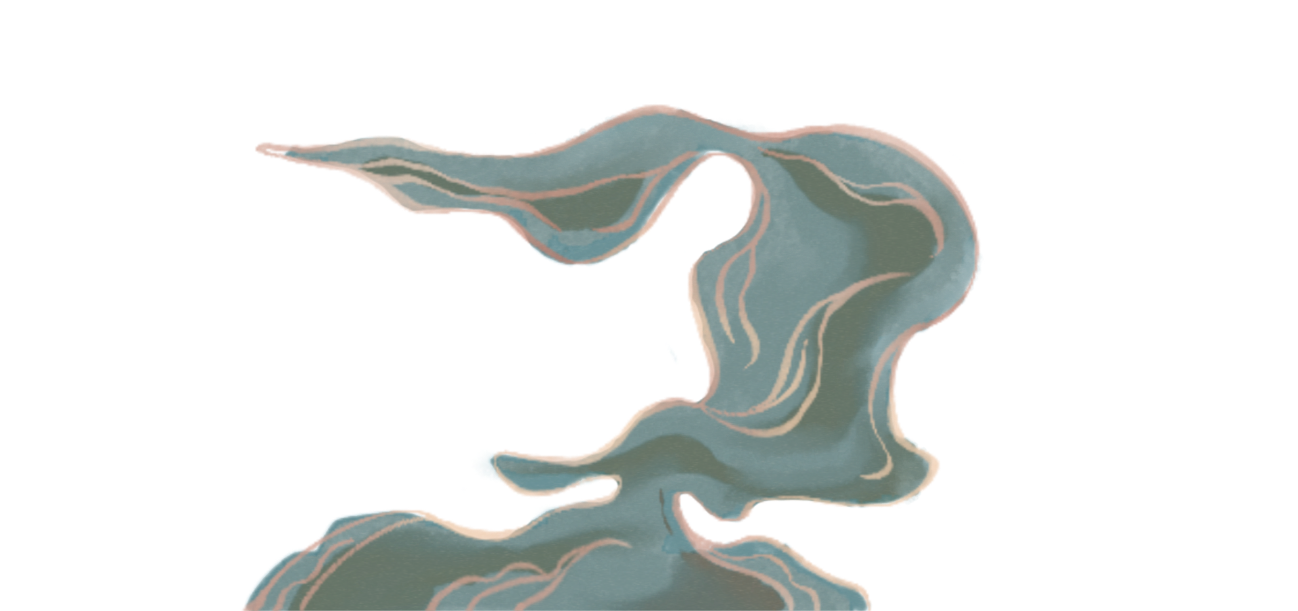
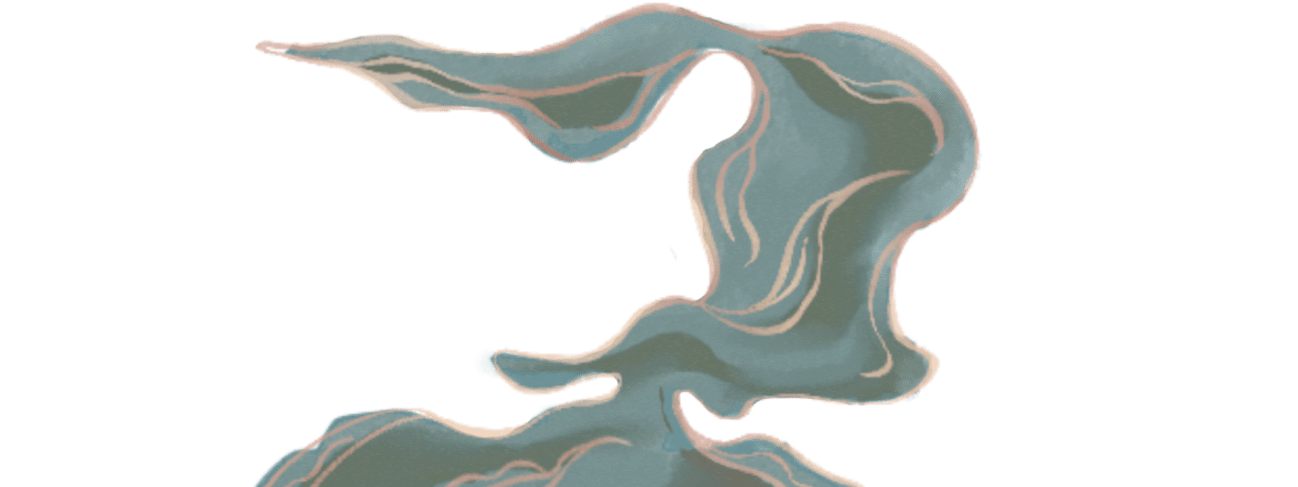
feat: crack check & update cloud image

Changed region(s): [[0.1849, 0.0, 0.7704, 1.0], [0.4931, 0.9548, 0.5239, 1.0], [0.5855, 0.8008, 0.6163, 0.8316]]

diff --git a/src/views/Home.vue b/src/views/Home.vue
@@ -1,6 +1,11 @@
 <template>
   <div class="wrapper">
-    <img src="../assets/image/bg.jpg" alt="bg" class="bg" />
+    <img
+      src="../assets/image/bg.jpg"
+      alt="bg"
+      class="bg"
+      :style="{ animationPlayState: state.isOver ? 'paused' : 'running' }"
+    />
     <img
       src="../assets/image/mask-light.png"
       alt="mask"
@@ -8,8 +13,16 @@
       id="mask"
       :style="{ top: state.top + 'px' }"
     />
-    <div class="dot" :style="{ top: state.top + 'px' }"></div>
-    <canvas class="clouds"></canvas>
+    <canvas
+      class="clouds"
+      :style="{ animationPlayState: state.isOver ? 'paused' : 'running' }"
+    ></canvas>
+  </div>
+  <div class="over-wrapper" v-show="state.isOver">
+    <div class="over-box">
+      <div class="content">GAME OVER</div>
+      <div class="refresh-btn" @click="reload">PLAY AGAIN</div>
+    </div>
   </div>
 </template>
 
@@ -21,19 +34,44 @@ import { defineComponent, reactive, onMounted } from "@vue/runtime-core";
 export default defineComponent({
   name: "Home",
   setup() {
-    const RADIUS = 100;
+    /**全局常量 */
+    const ratio = window.innerWidth / 1920;
+    const RADIUS = 100 * ratio;
     const TOP = RADIUS;
     const BOTTOM = window.innerHeight - RADIUS * 2;
     const MIDDLE = window.innerHeight / 2 - RADIUS;
     const g = 1.03;
-    const ratio = window.innerWidth / 1920;
     let ctx: CanvasRenderingContext2D | null;
+    const v = ((3000 + window.innerWidth) * 0.8) / (10 * 1000); //云朵的运行速度
 
+    /**云层位置数据 */
+    const scale = 0.5;
+    const cloudsImage = [
+      {
+        offsetTop: window.innerHeight / 2 - (309 / 2) * ratio,
+        offsetLeft: window.innerWidth,
+        width: 756 * ratio * scale,
+        height: 309 * ratio * scale,
+      },
+      {
+        offsetTop: window.innerHeight - 487 * ratio * scale,
+        offsetLeft: 1000 * ratio + window.innerWidth,
+        width: 1298 * ratio * scale,
+        height: 487 * ratio * scale,
+      },
+      {
+        offsetTop: 0,
+        offsetLeft: window.innerWidth + 1200 * ratio,
+        width: 1069 * ratio * scale,
+        height: 401 * ratio * scale,
+      },
+    ];
+
+    /** 全局状态 */
     const state = reactive({
       isOver: false,
       isMouseDown: false,
       top: MIDDLE,
-      ctx: null,
     });
 
     /**
@@ -51,10 +89,10 @@ export default defineComponent({
       img1.onload = () => {
         ctx?.drawImage(
           img1,
-          0 + window.innerWidth,
-          0,
-          907 * ratio,
-          907 * ratio
+          cloudsImage[0].offsetLeft,
+          cloudsImage[0].offsetTop,
+          cloudsImage[0].width,
+          cloudsImage[0].height
         );
       };
 
@@ -63,10 +101,10 @@ export default defineComponent({
       img2.onload = () => {
         ctx?.drawImage(
           img2,
-          800 + window.innerWidth,
-          window.innerHeight - 611 * ratio,
-          1298 * ratio,
-          611 * ratio
+          cloudsImage[1].offsetLeft,
+          cloudsImage[1].offsetTop,
+          cloudsImage[1].width,
+          cloudsImage[1].height
         );
       };
 
@@ -75,10 +113,10 @@ export default defineComponent({
       img3.onload = () => {
         ctx?.drawImage(
           img3,
-          1200 + window.innerWidth,
-          -100,
-          1463 * ratio,
-          600 * ratio
+          cloudsImage[2].offsetLeft,
+          cloudsImage[2].offsetTop,
+          cloudsImage[2].width,
+          cloudsImage[2].height
         );
       };
     };
@@ -95,29 +133,82 @@ export default defineComponent({
     /**
      * 碰撞检测
      */
+    const checkInterval = () => {
+      check();
+      setInterval(() => {
+        check();
+      }, 10000);
+    };
+
     const check = () => {
-      let top = state.top;
-      const imageData = ctx?.getImageData(
-        window.innerWidth / 2,
-        top,
-        1,
-        1
-      ).data;
-      console.log(top, imageData);
-      // for (let index = 3; index < imageData!.length; index += 4) {
-      //   console.log(imageData![index]);
-      //   // if (imageData![index] == 0) {
-      //   //   console.log("isAlphaBackground");
-      //   //   state.isOver = true;
-      //   // }
-      // }
-      // }, 10000);
+      let timer;
+      clearInterval(timer);
+      if (!state.isOver) {
+        let left = (window.innerWidth / 2) * ratio;
+        console.log("begin!");
+
+        timer = setInterval(() => {
+          if (!state.isOver) {
+            left += 30 * v;
+            let top = state.top;
+            /** 碰撞情况枚举 */
+            /** 第一朵云 */
+            if (
+              left >= cloudsImage[0].offsetLeft + RADIUS &&
+              left <= cloudsImage[0].offsetLeft + cloudsImage[0].width - RADIUS
+            ) {
+              console.log("Crossing cloud - 1");
+              if (
+                top > cloudsImage[0].offsetTop - RADIUS &&
+                top < cloudsImage[0].offsetTop + cloudsImage[0].height + RADIUS
+              ) {
+                state.isOver = true;
+              }
+            }
+            /** 第二朵云 */
+            if (
+              left >= cloudsImage[1].offsetLeft + RADIUS &&
+              left <= cloudsImage[1].offsetLeft + cloudsImage[1].width - RADIUS
+            ) {
+              console.log("Crossing cloud - 2");
+              if (
+                top > cloudsImage[1].offsetTop - RADIUS &&
+                top < cloudsImage[1].offsetTop + cloudsImage[1].height + RADIUS
+              ) {
+                state.isOver = true;
+              }
+            }
+            /** 第三朵云 */
+            if (
+              left >= cloudsImage[2].offsetLeft + RADIUS &&
+              left <= cloudsImage[2].offsetLeft + cloudsImage[2].width - RADIUS
+            ) {
+              // console.log("Crossing cloud - 3");
+              if (
+                top > cloudsImage[2].offsetTop - RADIUS &&
+                top < cloudsImage[2].offsetTop + cloudsImage[2].height + RADIUS
+              ) {
+                // state.isOver = true;
+              }
+            }
+          }
+        }, 30);
+      } else {
+        clearInterval(timer);
+      }
+    };
+
+    /**
+     * reload
+     */
+    const reload = () => {
+      window.location.reload();
     };
 
     onMounted(() => {
       initClouds();
       initMask();
-      check();
+      checkInterval();
       setInterval(() => {
         /** 游戏未结束时 */
         if (!state.isOver) {
@@ -136,22 +227,28 @@ export default defineComponent({
       window.addEventListener("mouseup", () => {
         state.isMouseDown = false;
       });
+      window.addEventListener("resize", reload);
     });
 
     return {
       state,
+      reload,
     };
   },
 });
 </script>
 
 <style scoped>
+.wrapper {
+  z-index: -1;
+  position: absolute;
+}
 .bg {
   z-index: 1;
   position: absolute;
   width: 1300vh;
   height: 100vh;
-  animation: 60s rowup linear infinite normal 3s;
+  animation: 60s rowup linear infinite normal;
 }
 
 @keyframes rowup {
@@ -184,6 +281,57 @@ export default defineComponent({
 .clouds {
   z-index: 30;
   position: fixed;
-  animation: 10s rowup linear infinite normal 3s;
+  animation: 10s rowup linear infinite normal;
+}
+
+.over-wrapper {
+  z-index: 100;
+  width: 100vw;
+  height: 100vh;
+  position: fixed;
+  display: flex;
+  justify-content: center;
+  align-items: center;
+  background: rgba(0, 0, 0, 0.5);
+}
+.over-box {
+  width: 380px;
+  height: 200px;
+  border-radius: 20px;
+  background-color: white;
+  display: flex;
+  flex-direction: column;
+  justify-content: center;
+  align-items: center;
+  zoom: 0.6;
+}
+
+.content {
+  color: black;
+  font-size: 32px;
+  font-weight: bold;
+  line-height: 64px;
+}
+
+.refresh-btn {
+  width: 200px;
+  height: 40px;
+
+  display: flex;
+  justify-content: center;
+  align-items: center;
+
+  border-radius: 60px;
+  border: 1px solid black;
+  font-size: 16px;
+
+  background-color: black;
+  color: white;
+
+  cursor: pointer;
+}
+.refresh-btn:hover,
+.refresh-btn:active {
+  opacity: 0.6;
 }
 </style>

diff --git a/index.html b/index.html
@@ -5,7 +5,7 @@
     <meta charset="UTF-8" />
     <link rel="icon" href="/favicon.ico" />
     <meta name="viewport" content="width=device-width, initial-scale=1.0" />
-    <title>Vite App</title>
+    <title>Flappy Dot</title>
     <style>
         * {
             margin: 0;
